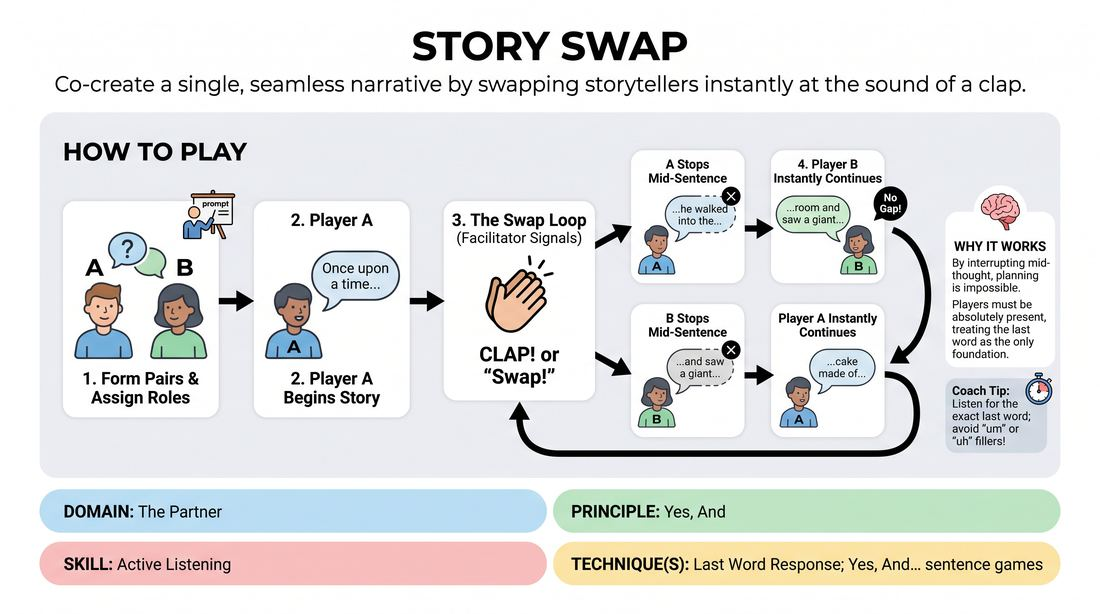
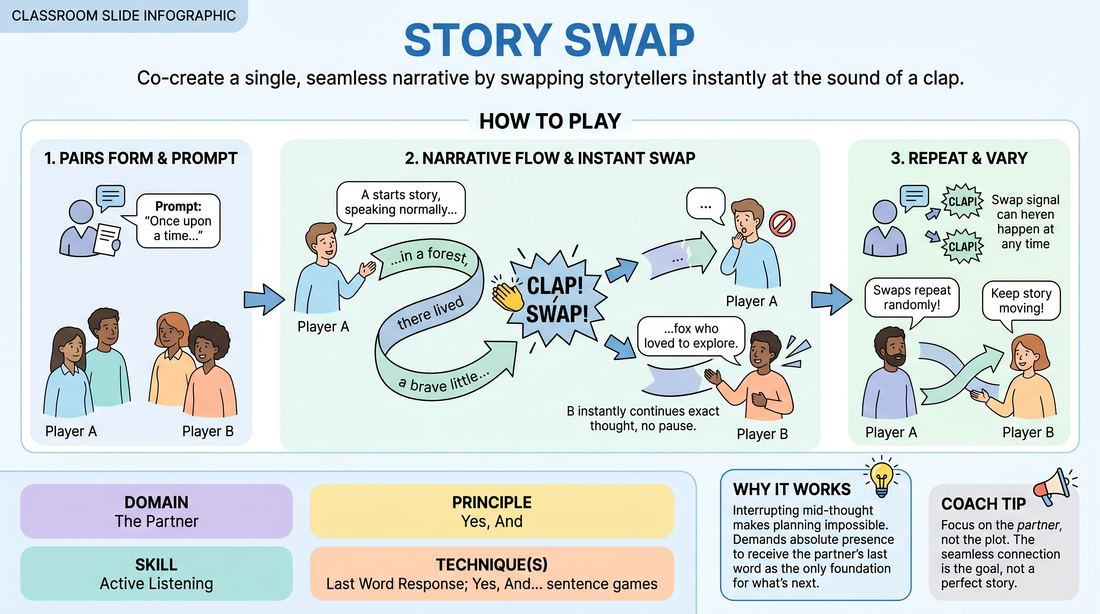
v3: publish curriculum + infographics (incremental)

diff --git a/github-pages-v3/docs/assets/extra.css b/github-pages-v3/docs/assets/extra.css
@@ -22,6 +22,9 @@
 /* De-linked reference/quote citations: keep the link color, but not clickable. */
 .md-typeset .ref { color: var(--md-typeset-a-color); }
 
+/* Remove the right-hand Table of Contents on every page — keep only the left nav. */
+.md-sidebar--secondary { display: none !important; }
+
 /* ── Readable type baseline ──────────────────────────────────────────────────
    Minimum content font size = 125% of the theme's default body text
    (.md-typeset .8rem → 1rem). Theme elements that rendered SMALLER (tables,

diff --git a/github-pages-v3/docs/games/D1_P1_S2_T2_G245__emotional-glitch-the-reaction-swap.md b/github-pages-v3/docs/games/D1_P1_S2_T2_G245__emotional-glitch-the-reaction-swap.md
@@ -67,7 +67,7 @@ aliases: []
 
 # Emotional Glitch
 
-<div class="game-hero-ph" markdown>🎨 *Infographic coming soon*</div>
+![Emotional Glitch — infographic](img/D1_P1_S2_T2_G245__emotional-glitch-the-reaction-swap.jpg){ .game-hero }
 
 > Instantly swap your emotional state mid-scene to build radical versatility and physical commitment.
 

diff --git a/github-pages-v3/docs/games/D1_P2_S6_T2_G619__1-2-3.md b/github-pages-v3/docs/games/D1_P2_S6_T2_G619__1-2-3.md
@@ -56,7 +56,7 @@ aliases:
 
 # One Two Three
 
-<div class="game-hero-ph" markdown>🎨 *Infographic coming soon*</div>
+![One Two Three — infographic](img/D1_P2_S6_T2_G619__1-2-3.jpg){ .game-hero }
 
 > Transform mental slip-ups into moments of shared celebration through a fast-paced, evolving counting pattern.
 

diff --git a/github-pages-v3/docs/games/D1_P4_S1_T1_G936__association-chain.md b/github-pages-v3/docs/games/D1_P4_S1_T1_G936__association-chain.md
@@ -49,7 +49,7 @@ aliases: []
 
 # Word Bridge
 
-<div class="game-hero-ph" markdown>🎨 *Infographic coming soon*</div>
+![Word Bridge — infographic](img/D1_P4_S1_T1_G936__association-chain.jpg){ .game-hero }
 
 > Connect two distant words by building an unfiltered chain and discovering a surprise final link.
 

diff --git a/github-pages-v3/docs/games/D1_P4_S1_T2_G1010__dada-monologue.md b/github-pages-v3/docs/games/D1_P4_S1_T2_G1010__dada-monologue.md
@@ -52,7 +52,7 @@ aliases: []
 
 # Dada Stream
 
-<div class="game-hero-ph" markdown>🎨 *Infographic coming soon*</div>
+![Dada Stream — infographic](img/D1_P4_S1_T2_G1010__dada-monologue.jpg){ .game-hero }
 
 > Bypass your inner editor by speaking a continuous stream of beautiful, absolute nonsense.
 

diff --git a/github-pages-v3/docs/games/D1_P4_S1_T2_G806__point-to-things-in-the-room.md b/github-pages-v3/docs/games/D1_P4_S1_T2_G806__point-to-things-in-the-room.md
@@ -53,7 +53,7 @@ aliases:
 
 # Point and Name
 
-![Point and Name — infographic](img/D1_P4_S1_T2_G806__point-to-things-in-the-room.jpg){ .game-hero }
+<div class="game-hero-ph" markdown>🎨 *Infographic coming soon*</div>
 
 > Bypass your internal editor by pointing at objects and rapidly renaming your reality.
 

diff --git a/github-pages-v3/docs/games/D2_P2_S1_T0_G139__silent-scripting-symphony.md b/github-pages-v3/docs/games/D2_P2_S1_T0_G139__silent-scripting-symphony.md
@@ -65,7 +65,7 @@ aliases:
 
 # The Secret Script
 
-<div class="game-hero-ph" markdown>🎨 *Infographic coming soon*</div>
+![The Secret Script — infographic](img/D2_P2_S1_T0_G139__silent-scripting-symphony.jpg){ .game-hero }
 
 > Weave a dynamic narrative using silent physical play punctuated by secret, privately messaged plot twists.
 

diff --git a/github-pages-v3/docs/games/D2_P2_S1_T1_G380__the-echo-canvas.md b/github-pages-v3/docs/games/D2_P2_S1_T1_G380__the-echo-canvas.md
@@ -71,7 +71,7 @@ aliases:
 
 # The Echo Canvas
 
-<div class="game-hero-ph" markdown>🎨 *Infographic coming soon*</div>
+![The Echo Canvas — infographic](img/D2_P2_S1_T1_G380__the-echo-canvas.jpg){ .game-hero }
 
 > Transform a single repeated phrase into a shifting landscape of relationship, emotion, and status.
 

diff --git a/github-pages-v3/docs/games/D2_P2_S4_T1_G509__yes-and-show-and-tell.md b/github-pages-v3/docs/games/D2_P2_S4_T1_G509__yes-and-show-and-tell.md
@@ -67,7 +67,7 @@ aliases:
 
 # The Echoing Storyteller
 
-<div class="game-hero-ph" markdown>🎨 *Infographic coming soon*</div>
+![The Echoing Storyteller — infographic](img/D2_P2_S4_T1_G509__yes-and-show-and-tell.jpg){ .game-hero }
 
 > Build a collaborative physical and verbal narrative online by echoing your partner's last move.
 

diff --git a/github-pages-v3/docs/games/D2_P3_S5_T1_G1242__press-conference.md b/github-pages-v3/docs/games/D2_P3_S5_T1_G1242__press-conference.md
@@ -58,7 +58,7 @@ aliases: []
 
 # Press Conference
 
-<div class="game-hero-ph" markdown>🎨 *Infographic coming soon*</div>
+![Press Conference — infographic](img/D2_P3_S5_T1_G1242__press-conference.jpg){ .game-hero }
 
 > Uncover a secret identity through the supportive, clue-filled questions of a helpful press corps.
 

diff --git a/github-pages-v3/docs/games/D3_P0_S6_T1_G1337__three-rules.md b/github-pages-v3/docs/games/D3_P0_S6_T1_G1337__three-rules.md
@@ -59,7 +59,7 @@ aliases:
 
 # The Triple Constraint
 
-<div class="game-hero-ph" markdown>🎨 *Infographic coming soon*</div>
+![The Triple Constraint — infographic](img/D3_P0_S6_T1_G1337__three-rules.jpg){ .game-hero }
 
 > Weave three absurd, audience-imposed limitations into a perfectly logical, grounded scene.
 

diff --git a/github-pages-v3/docs/games/D3_P2_S5_T1_G913__3-lines.md b/github-pages-v3/docs/games/D3_P2_S5_T1_G913__3-lines.md
@@ -60,7 +60,7 @@ aliases:
 
 # Three-Line Launches
 
-<div class="game-hero-ph" markdown>🎨 *Infographic coming soon*</div>
+![Three-Line Launches — infographic](img/D3_P2_S5_T1_G913__3-lines.jpg){ .game-hero }
 
 > Establish a rich, complete base reality using only three lines of dialogue.
 